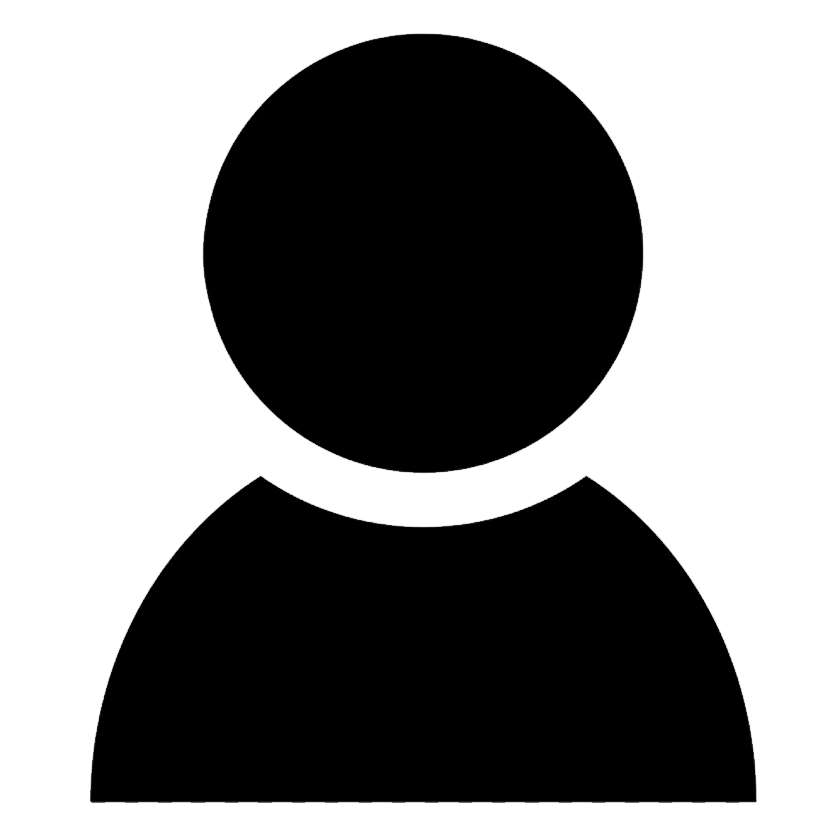
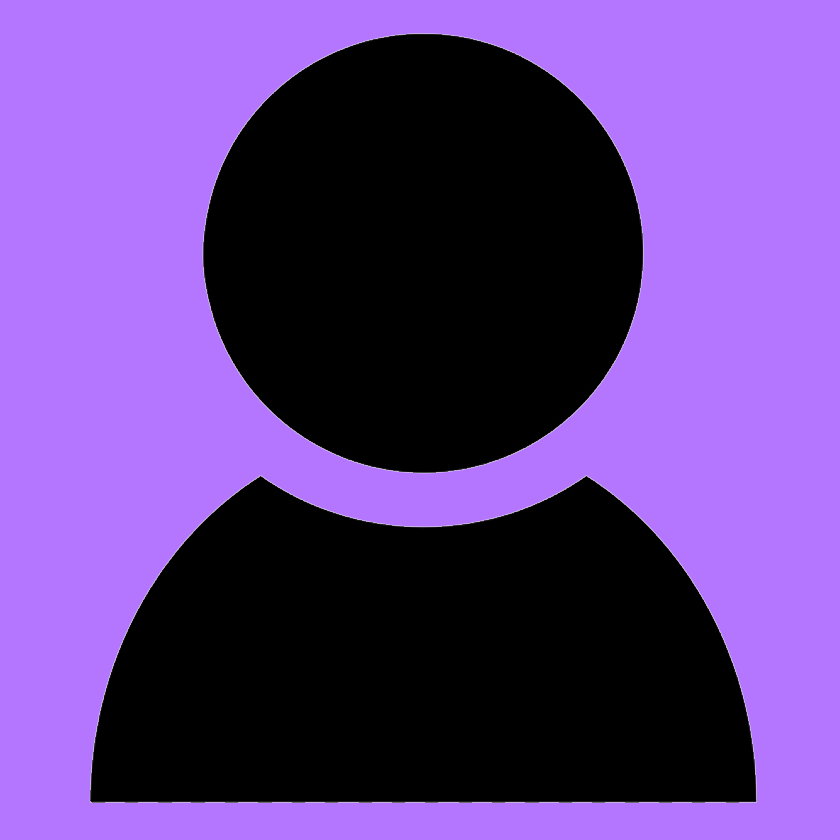
makin dashboard (incomplete)

diff --git a/main.py b/main.py
@@ -19,10 +19,22 @@ def x(value):
 def y(value):
     return int((root.wm_maxsize()[1]/864)*value)
 
+def savedata():
+    with open('data/data.json', 'w') as file:
+        file.write(json.dumps(root.data, indent=2))
+
+    with open('data/accounts.json', 'w') as acc:
+        acc.write(json.dumps(root.accountsdata, indent=2))
+
+    with open('data/statements.json', 'w') as st:
+        st.write(json.dumps(root.statements, indent=2))
+
+
 def create_login():
     username = login_field.get()
     password = password_field.get()
     status.configure(text="")
+    status.place(x=x(85), y=y(562))
     if username == "":
         status.configure(text="Username cannot be blank!")
         return
@@ -36,8 +48,8 @@ def create_login():
     found = False
     for acc in root.accountsdata.keys():
         if acc == username.lower():
-            if root.accountsdata[acc]["password"] == password:
-                dashboard(root.accountsdata[acc])
+            if root.accountsdata[acc]["pswd"] == password:
+                dashboard(root.accountsdata[acc], (login_field, password_field, submit_login, submit_create, status))
             else:
                 status.configure(text="Incorrect Password!", fg="#FF0000")
                 return
@@ -52,7 +64,6 @@ def cancelcreate(*args):
     password_field.place(x=x(95), y=y(490))
     submit_login.place(x=x(85), y=y(600))
     submit_create.place(x=x(300), y=y(600))
-    status.place(x=x(85), y=y(562))
     for i in args:
         i.place_forget()
 
@@ -61,7 +72,7 @@ def cancelcreate(*args):
     root.bgimg = ImageTk.PhotoImage(dashbg)
     bg_canvas.itemconfig(root.rootbgimage, image=root.bgimg)
 
-def finalsubmit(fname, lname, email, age, pan, gender, aadhar, add1, add2, pswd, cpswd):
+def finalsubmit(fname, lname, email, age, pan, gender, aadhar, add1, add2, pswd, cpswd, **kwargs):
     g_fname = fname.get().replace(" ", "")
     g_lname = lname.get().replace(" ", "")
     g_email = email.get().replace(" ", "")
@@ -116,6 +127,13 @@ def finalsubmit(fname, lname, email, age, pan, gender, aadhar, add1, add2, pswd,
         create_popup("Passwords do not match!")
         return
 
+    userid = random.randint(10 ** 10, 10 ** 11)
+    root.accountsdata[str(userid)] = {"pswd": g_pswd, "email": g_email, "address": f"{g_add1}, {g_add2}", "age": g_age, "gender": g_gender,
+                                      "pan": g_pan, "aadhar": g_aadhar, "name":f"{g_fname} {g_lname}"}
+    root.data[str(userid)] = {"balance":0}
+    savedata()
+    dashboard(root.accountsdata[str(userid)], kwargs["ele"])
+
 def create_popup(text):
     messagebox.showwarning("Error", text)
 
@@ -128,6 +146,7 @@ def submit_data():
 
     dashbg = Image.open("data/images/create_account.png")
     dashbg = dashbg.resize(root.wm_maxsize())
+
     root.bgimg = ImageTk.PhotoImage(dashbg)
     bg_canvas.itemconfig(root.rootbgimage, image=root.bgimg)
 
@@ -165,22 +184,8 @@ def submit_data():
     cancel.place(x=x(1290), y=y(690))
     cancel.configure(command=partial(cancelcreate, fname, lname, email, age, pan, male, female, other, aadhar, add1, add2, pswd,
                         cpswd, final, cancel))
-    final.configure(command=partial(finalsubmit, fname, lname, email, age, pan, gender, aadhar, add1, add2, pswd, cpswd))
-    return
-    usen = input('Pls enter a username: ')
-    pas = input('Pls enter a password: ')
-    email = input('Pls enter your email: ')
-    add = input('Pls enter your address: ')
-    age = int(input('Pls enter your age: '))
-    gn = input('Pls enter your gender: ')
-    mno= input('Pls enter your mobile number: ')
-    pan= input('Pls enter your pan number: ')
-    acn = input('Pls enter your aadhar card number: ')
-
-    userid = random.randint(10**10, 10**11)
-    root.accountsdata[str(userid)] = {"password":pas, "email":email, "address":add, "age":age, "Gender":gn, "MOBILE NUMBER": mno, "PAN NO.":pan, "AADHAR CARD NO.":acn}
-    with open('data/accounts.json', 'w') as file:
-        file.write(root.accountsdata)
+    final.configure(command=partial(finalsubmit, fname, lname, email, age, pan, gender, aadhar, add1, add2, pswd, cpswd,
+                                    ele=(fname, lname, email, age, pan, male, female, other, aadhar, add1, add2, pswd, cpswd, final, cancel)))
 
 def restore_root():
     if root.fs:
@@ -196,12 +201,10 @@ def restore_root():
         restore.place(x=x(root.x - x(93)), y=y(2))
         close.place(x=x(root.x - x(42)), y=y(2))
 
-def dashboard(data):
-    login_field.place_forget()
-    password_field.place_forget()
-    submit_login.place_forget()
-    submit_create.place_forget()
-    status.place_forget()
+def dashboard(data, *args):
+    for i in args[0]:
+        i.place_forget()
+
     dashbg = Image.open("data/images/dashboard.png")
     dashbg = dashbg.resize(root.wm_maxsize())
     root.bgimg = ImageTk.PhotoImage(dashbg)
@@ -212,14 +215,56 @@ def dashboard(data):
     topframe = Frame(root, width=root.wm_maxsize()[0], height=80, bg="#B576FF")
     topframe.place(x=0, y=y(25))
 
-    userimg = Image.open("data/images/user.png").resize((x(40), y(40)))
+    userimg = Image.open("data/images/user.png").resize((x(40), y(40))).convert("RGB")
     userimg = ImageTk.PhotoImage(userimg)
-    userimage = Canvas(root, width=x(50), height=y(50))
-    userimage.create_image(0, 0, image=userimg, anchor="nw")
-    userimage.place(x=x(25), y=y(40))
+    userimage = Label(root, image=userimg)
+    userimage.image = userimg
+    userimage.place(x=x(27), y=y(40))
 
     welcome = Label(topframe, text=f"Welcome, {data['name']}!", font=("Arial", 20), bg="#B576FF")
     welcome.place(x=x(85), y=(20))
+
+    depimg = Image.open("data/images/deposit.PNG").resize((x(100), y(100)))
+    depimg = ImageTk.PhotoImage(depimg)
+    depositbtn = Button(root, text="Deposit", compound=TOP, image=depimg, font=("Arial", 13, "bold"))
+    depositbtn.place(x=x(800), y=y(300))
+    depositbtn.image = depimg
+
+    withimg = Image.open("data/images/withdraw.png").resize((x(100), y(100)))
+    withimg = ImageTk.PhotoImage(withimg)
+    withbtn = Button(root, text="Withdraw", compound=TOP, image=withimg, font=("Arial", 13, "bold"))
+    withbtn.place(x=x(940), y=y(300))
+    withbtn.image = withimg
+
+    loanimg = Image.open("data/images/loan.jpg").resize((x(100), y(100)))
+    loanimg = ImageTk.PhotoImage(loanimg)
+    loanbtn = Button(root, text="Loan", compound=TOP, image=loanimg, font=("Arial", 13, "bold"))
+    loanbtn.place(x=x(1080), y=y(300))
+    loanbtn.image = loanimg
+
+    statementsimg = Image.open("data/images/statements.png").resize((x(100), y(100)))
+    statementsimg = ImageTk.PhotoImage(statementsimg)
+    statementsbtn = Button(root, text="Statement", compound=TOP, image=statementsimg, font=("Arial", 13, "bold"))
+    statementsbtn.place(x=x(1220), y=y(300))
+    statementsbtn.image = statementsimg
+
+    viewaccimg = Image.open("data/images/viewacc.png").resize((x(100), y(100)))
+    viewaccimg = ImageTk.PhotoImage(viewaccimg)
+    viewaccbtn = Button(root, text="My Account", compound=TOP, image=viewaccimg, font=("Arial", 13, "bold"))
+    viewaccbtn.place(x=x(800), y=y(460))
+    viewaccbtn.image = viewaccimg
+
+    fdimg = Image.open("data/images/fixeddep.png").resize((x(100), y(100)))
+    fdimg = ImageTk.PhotoImage(fdimg)
+    fdbtn = Button(root, text="Fixed Dep", compound=TOP, image=fdimg, font=("Arial", 13, "bold"))
+    fdbtn.place(x=x(940), y=y(460))
+    fdbtn.image = fdimg
+
+    chpswdimg = Image.open("data/images/passwd.png").resize((x(100), y(100)))
+    chpswdimg = ImageTk.PhotoImage(chpswdimg)
+    chpswdbtn = Button(root, text="Change Pswd", compound=TOP, image=chpswdimg, font=("Arial", 13, "bold"))
+    chpswdbtn.place(x=x(1080), y=y(460))
+    chpswdbtn.image = chpswdimg
 
 root = Tk()
 root.geometry(f"{root.wm_maxsize()[0]}x{root.wm_maxsize()[1]}")
@@ -256,7 +301,6 @@ submit_create = Button(root, text="Create Account", font=("Arial", 18), width=x(
 submit_create.place(x=x(300), y=y(600))
 
 status = Label(root, font=("Helvetica", 16), bg="#ffffff", fg="#FF0000")
-status.place(x=x(85), y=y(562))
 
 with open("data/accounts.json", "r") as f:
     root.accountsdata = json.load(f)
@@ -275,7 +319,7 @@ def createstatements(CREDIT, balance):
 
     prev.append({"type": withdraw(), "Withdraw": nam})
     prev.append({"type": deposit(), "Deposit": n_balance})
-    savecode()
+    savedata()
 
 
 def withdraw():
@@ -288,12 +332,7 @@ def withdraw():
     else:
         nam = balance - withd
         root.data[str(userid)] = {"balance":nam}
-        savecode()
-
-def savecode():
-    with open('data/data.json', 'w') as file:
-        file.write(json.dumps(root.data, indent=2))
-
+        savedata()
 
 def deposit():
     userid = 8567375658
@@ -305,13 +344,9 @@ def deposit():
         n_balance = dep + balance
         print("THE AMOUNT HAS BEEN DEPOSITED YOUR NEW CURRENT BALANCE IS",n_balance)
         root.data[str(userid)] = {"balance": n_balance}
-        savecode()
+        savedata()
     elif dep > alloted :
         print("THE AMOUNT YOU WANT TO DEPOSIT IS LARGER THAN ALLOWED PLEASE REFER TO OUR TERMS AND CONDITIONS FOR FURTHER INFORMATION")
-
-
-with open('data/data.json', 'w') as file:
-    file.write(json.dumps(root.data,indent=2))
 
 def loan():
     userid = 8567375658
@@ -334,6 +369,6 @@ def loan():
     else :
         print("NOT CONFIRMED BECAUSE THE AMOUNT EXPECTED IS TOO LARGE")
 
-
+dashboard(root.accountsdata["58625216057"], (login_field, password_field, submit_login, submit_create, status))
 root.mainloop()
 
